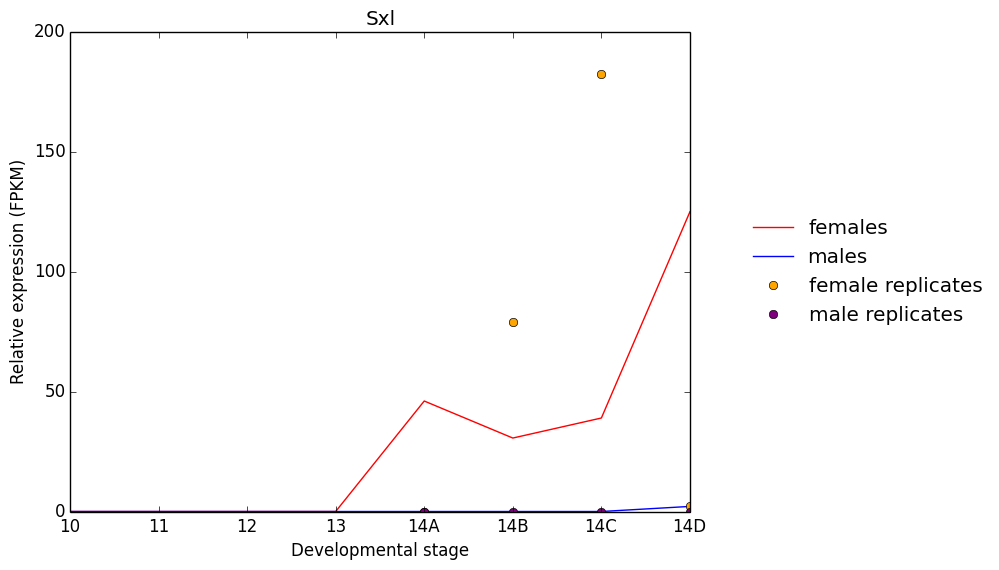
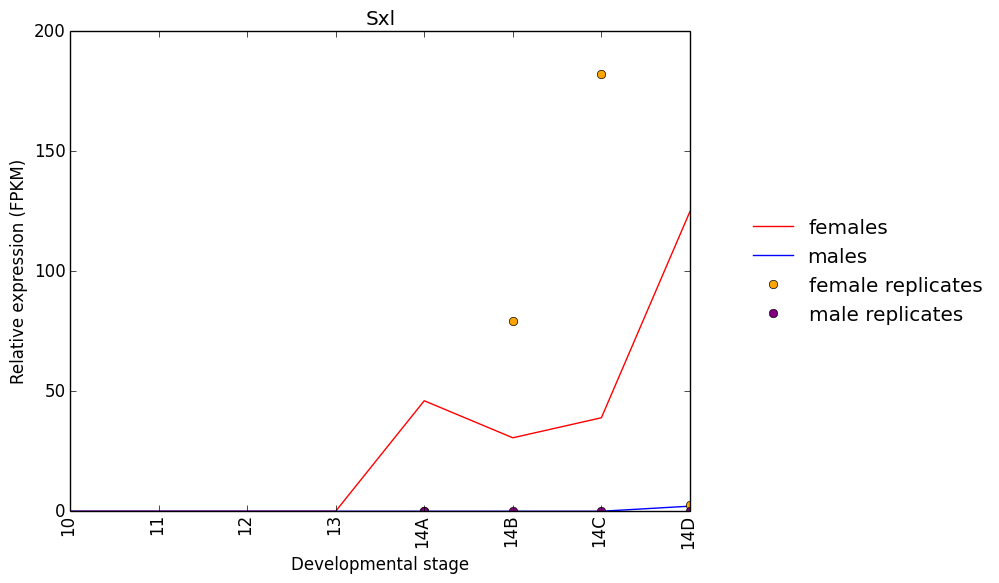
Day 4 Homework Update

diff --git a/day4-homework/day4-homework-basic.py b/day4-homework/day4-homework-basic.py
@@ -61,11 +61,11 @@ for replicate in df_replicates["sample"][repoi_m]:
     rep_fpkms_m.append(df[roi]["FPKM"])
     
 plt.figure()
-plt.plot(fpkms_female, c="red")
-plt.plot(fpkms_male, c="blue")
-plt.plot(rep_fpkms_f, 'o', c="orange")
-plt.plot(rep_fpkms_m, 'o', c="purple")
-plt.xticks(range(len(fpkms_female)), df_samples["stage"])
+plt.plot(fpkms_female, c="red", dash_joinstyle='miter')
+plt.plot(fpkms_male, c="blue", dash_joinstyle='miter')
+plt.plot(rep_fpkms_f, 'o', c="orange", dash_joinstyle='miter')
+plt.plot(rep_fpkms_m, 'o', c="purple", dash_joinstyle='miter')
+plt.xticks(range(len(fpkms_female)), df_samples["stage"], rotation=90)
 plt.ylabel("Relative expression (FPKM)")
 plt.xlabel("Developmental stage")
 plt.title("Sxl")
